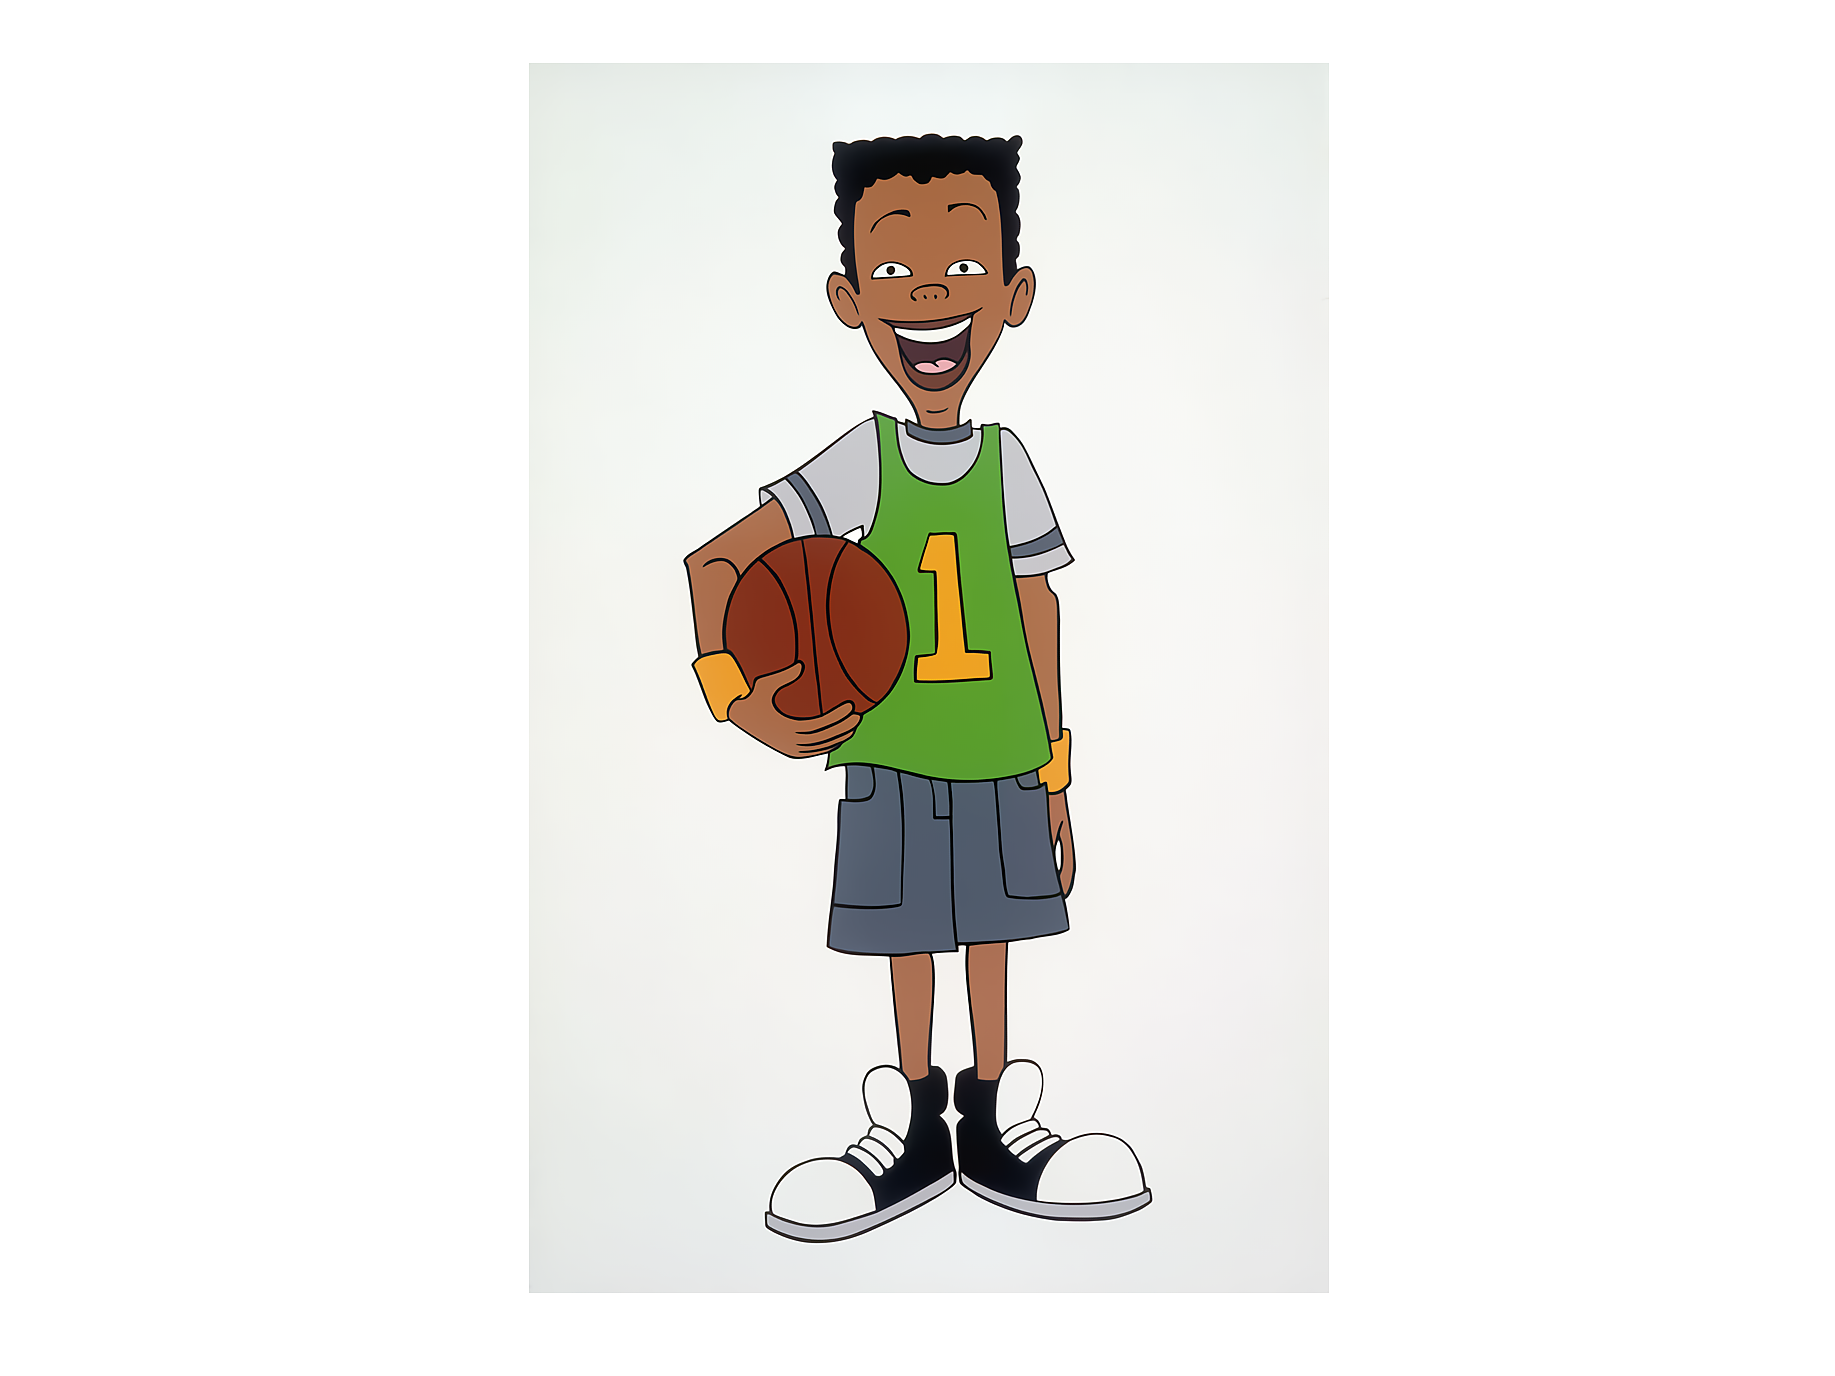
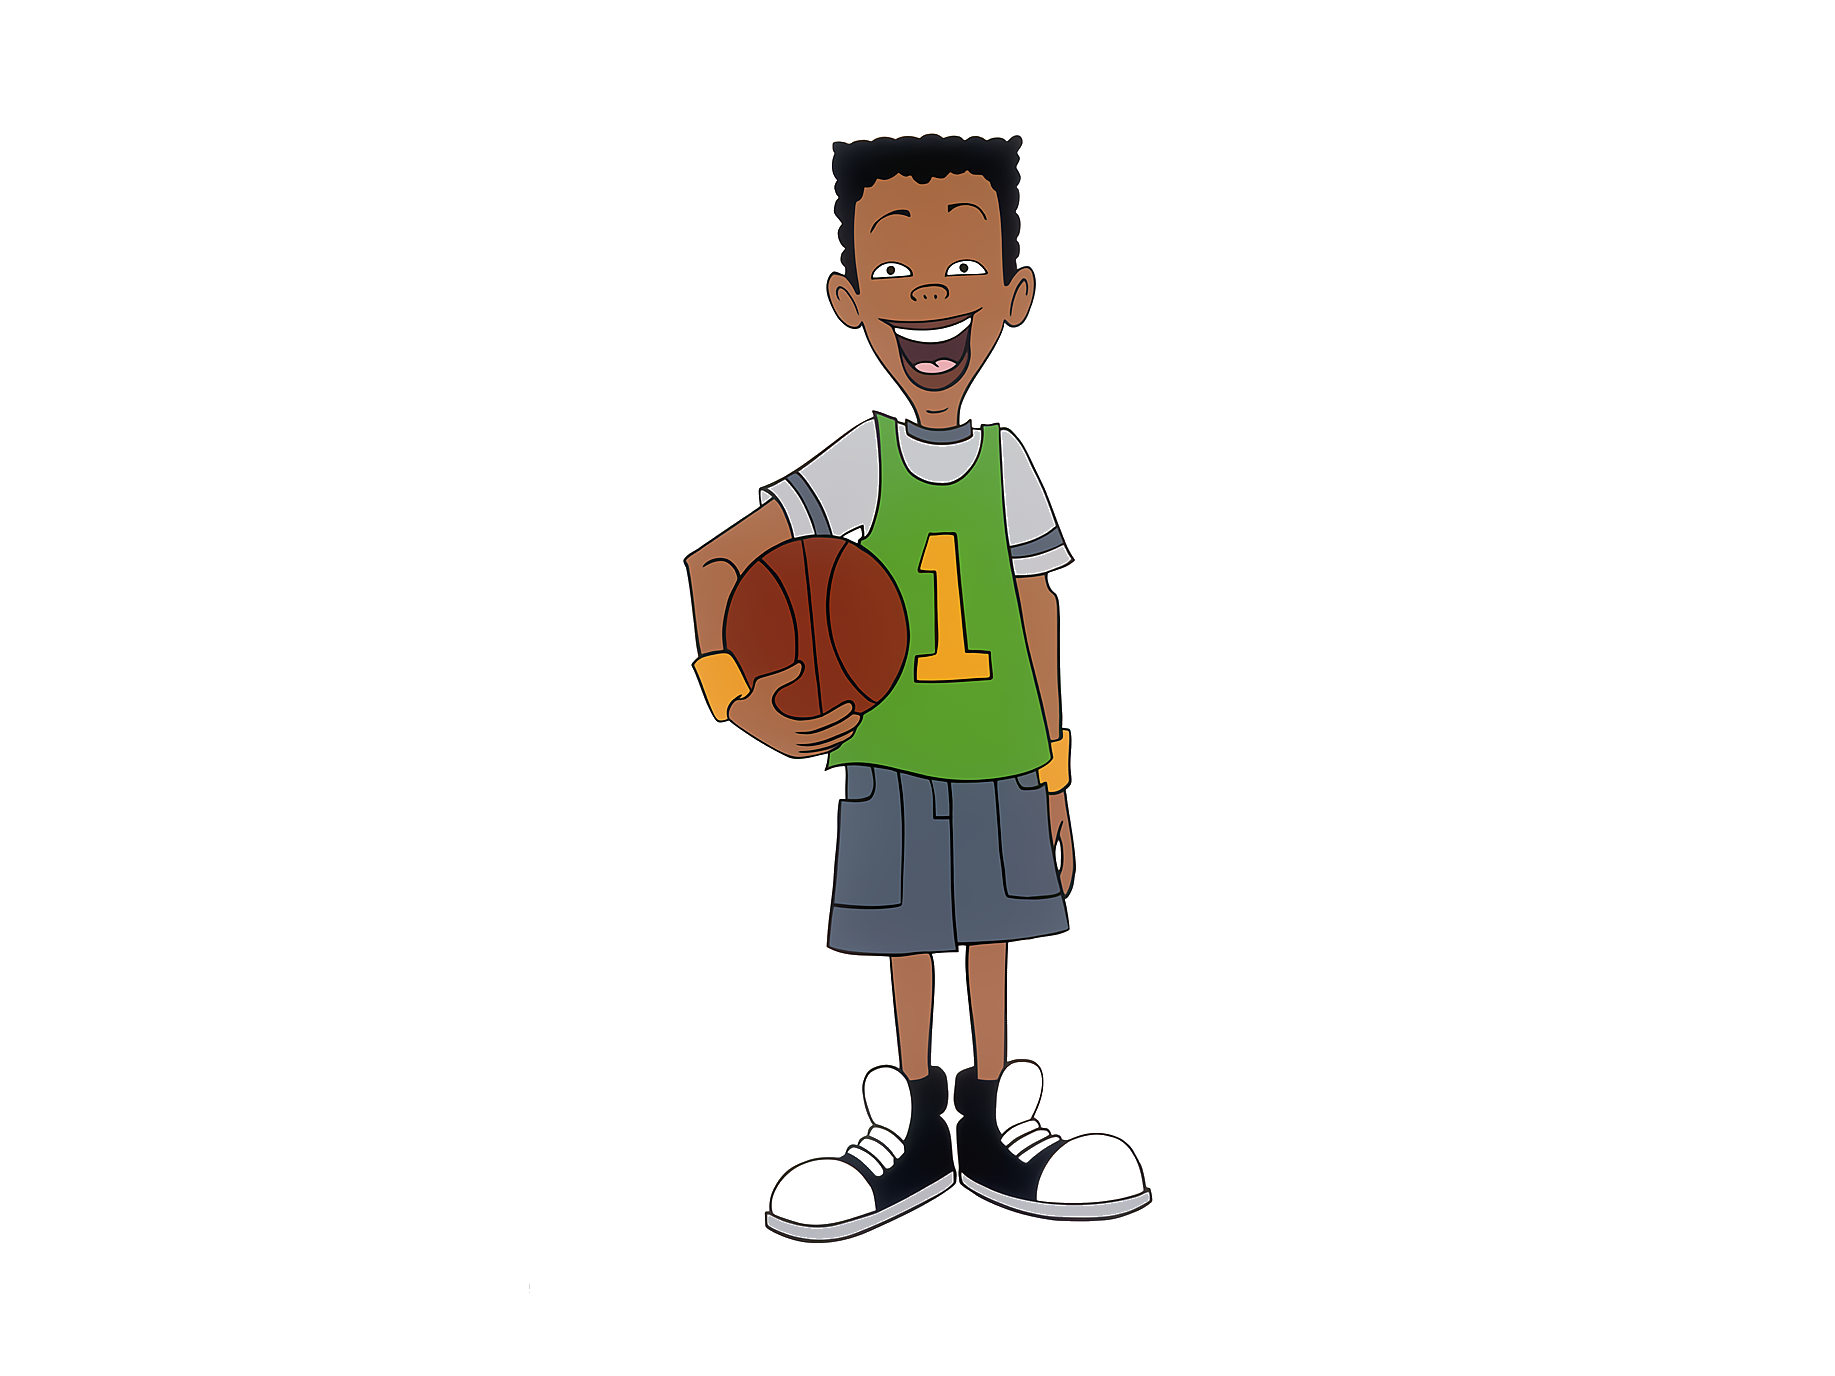
Items-only refinements: park Characters, reapply 3-item/2-skip limits, themed share card
- Park the Characters tab as a coming-soon stub: it stays visible (nav still
  reads Items / Characters) but tapping or arrowing onto it shows a toast,
  a hover 'Soon' label, and a quick shake instead of switching modes. Its
  daily selection is skipped so the seen-record isn't advanced in the
  background. Flip CHARACTERS_ENABLED back to true to restore both modes.
- Reapply the daily limits: 3 fresh items per UTC day (CHARACTERS_PER_DAY /
  ROUNDS_PER_DAY) and 2 skips per mode (MAX_SKIPS_PER_MODE), with the skip
  count shown explicitly again.
- Give each rendered share card a random main colour theme (accent, glow and
  background tint) so the same day's result doesn't share as the identical
  image; the underlying data is unchanged. With Characters parked the card is
  the items-only layout, so it contains just the 3 items.
- Remove the hard reset button (HTML, JS handler, CSS).
- Recolor Vince's jersey photo onto a plain white background (drop-shadow
  halo removed, Vince untouched).

New items surface every day: simulated the selection flow and confirmed each
UTC day yields 3 fresh, non-repeating items until the 80-item pool wraps
(~day 26). scripts/verify.mjs and scripts/verify-random.mjs both pass.

diff --git a/js/main.js b/js/main.js
@@ -22,7 +22,13 @@ initTitleBlob();
 
 const COL_LABELS = ['A', 'B', 'C', 'D'];
 const GRID_SIZE = 4;
-const ROUNDS_PER_DAY = 999;
+const ROUNDS_PER_DAY = 3;
+
+// Characters mode is parked as "coming soon" while it's being reworked. The
+// tab still renders (so the nav reads "Items / Characters") but selecting it
+// surfaces a toast instead of switching — the live experience is items-only.
+// Flip back to true to restore the full two-mode game.
+const CHARACTERS_ENABLED = false;
 
 // Per-mode localStorage keys. Seen records the IDs the player has already
 // encountered (so each day surfaces fresh entries until the roster wraps).
@@ -167,11 +173,13 @@ async function init() {
     const itemPool = chars.filter(c => c.type === 'item');
     const gridPool = chars.filter(c => c.type !== 'item');
     const itemDaily = selectDailyFresh(itemPool, dateKey, 'items');
-    const gridDaily = selectDailyFresh(gridPool, dateKey, 'grid');
+    // While Characters is parked, skip its daily selection entirely so we don't
+    // advance its seen-record in the background — the tab is a coming-soon stub.
+    const gridDaily = CHARACTERS_ENABLED ? selectDailyFresh(gridPool, dateKey, 'grid') : [];
     games.items = itemDaily.length
       ? createDailyGame(itemDaily, dateKey, { mode: 'items' })
       : null;
-    games.grid = gridDaily.length
+    games.grid = (CHARACTERS_ENABLED && gridDaily.length)
       ? createDailyGame(gridDaily, dateKey, { mode: 'grid' })
       : null;
     renderHeaders();
@@ -191,7 +199,7 @@ async function init() {
     const lastVisit = readJson(STORAGE_LAST_VISIT);
     if (typeof lastVisit === 'string' && lastVisit !== dateKey) {
       // Defer slightly so the toast doesn't collide with the loading-state swap.
-      setTimeout(() => toast('A new day — fresh items and characters await!'), 600);
+      setTimeout(() => toast('A new day — three fresh items await!'), 600);
     }
     writeJson(STORAGE_LAST_VISIT, dateKey);
     armDateRolloverReload();
@@ -357,6 +365,18 @@ function prefetchImage(src) {
 }
 
 function applyTabAvailability() {
+  // While Characters is parked, keep its tab visible (so the nav still reads
+  // "Items / Characters") but mark it as a disabled coming-soon stub. The
+  // tablist stays up as long as Items is playable.
+  if (!CHARACTERS_ENABLED) {
+    els.tabItems.hidden = !games.items;
+    els.tabGrid.hidden = false;
+    els.tabGrid.classList.add('tab--coming-soon');
+    els.tabGrid.setAttribute('aria-disabled', 'true');
+    els.tabGrid.setAttribute('title', 'Coming soon');
+    if (els.tabs) els.tabs.hidden = !games.items;
+    return;
+  }
   // Hide tabs whose roster ended up empty. Clicking a no-op tab and seeing
   // nothing happen is more confusing than just not showing it. If only one
   // mode is available we hide the whole tablist — there's nothing to
@@ -849,7 +869,22 @@ function updateSkipButton() {
 }
 
 els.tabItems.addEventListener('click', () => setMode('items'));
-els.tabGrid.addEventListener('click', () => setMode('grid'));
+els.tabGrid.addEventListener('click', () => {
+  if (!CHARACTERS_ENABLED) { showComingSoon(); return; }
+  setMode('grid');
+});
+
+// Coming-soon affordance for the parked Characters tab: a toast plus a quick
+// shake on the tab so a tap reads as "intentionally not available yet".
+let comingSoonTimer = null;
+function showComingSoon() {
+  toast('Characters mode is coming soon — stay tuned!');
+  els.tabGrid.classList.remove('tab--nudge');
+  void els.tabGrid.offsetWidth;
+  els.tabGrid.classList.add('tab--nudge');
+  if (comingSoonTimer) clearTimeout(comingSoonTimer);
+  comingSoonTimer = setTimeout(() => els.tabGrid.classList.remove('tab--nudge'), 500);
+}
 
 // ARIA tablist keyboard pattern: Left/Right (and Home/End) move focus AND
 // activate the tab. Tab key continues to escape the tablist into the rest
@@ -873,6 +908,12 @@ function onTabKeyDown(e) {
     default: return;
   }
   e.preventDefault();
+  // Characters is parked — arrowing onto it surfaces the coming-soon toast
+  // rather than silently snapping focus back to Items.
+  if (!CHARACTERS_ENABLED && TAB_ORDER[nextIdx] === 'grid') {
+    showComingSoon();
+    return;
+  }
   // Skip to the next available tab if the chosen one has no game (e.g.
   // items roster failed to load). One hop is enough — there are only two.
   const targetMode = games[TAB_ORDER[nextIdx]] ? TAB_ORDER[nextIdx] : TAB_ORDER[(nextIdx + 1) % TAB_ORDER.length];
@@ -1249,38 +1290,6 @@ function triggerSwipeHint() {
   el.addEventListener('animationend', () => {
     el.classList.remove('swipe-hint');
   }, { once: true });
-}
-
-const hardResetBtn = document.getElementById('hard-reset-btn');
-if (hardResetBtn) {
-  const idleLabel = 'Hard reset';
-  const armedLabel = 'Tap again to confirm';
-  let armedTimer = null;
-  const disarm = () => {
-    hardResetBtn.textContent = idleLabel;
-    hardResetBtn.classList.remove('btn--hard-reset-armed');
-    armedTimer = null;
-  };
-  hardResetBtn.addEventListener('click', () => {
-    if (!armedTimer) {
-      hardResetBtn.textContent = armedLabel;
-      hardResetBtn.classList.add('btn--hard-reset-armed');
-      armedTimer = setTimeout(disarm, 3000);
-      return;
-    }
-    clearTimeout(armedTimer);
-    armedTimer = null;
-    try {
-      for (let i = localStorage.length - 1; i >= 0; i--) {
-        const key = localStorage.key(i);
-        if (key && key.startsWith('wcat:')) localStorage.removeItem(key);
-      }
-    } catch { /* private mode — nothing to clear */ }
-    const url = new URL(window.location.href);
-    url.search = '';
-    url.hash = '';
-    window.location.replace(url.toString());
-  });
 }
 
 let toastTimer = null;

diff --git a/js/share.js b/js/share.js
@@ -22,7 +22,29 @@ const CARD_STROKE = '#262d38';
 const TEXT_PRIMARY = '#e6ebf2';
 const TEXT_SECONDARY = '#a4afc1';
 const TEXT_MUTED = '#7b8597';
-const ACCENT = '#4dd9c0';
+
+// Each rendered share card gets a randomly-hued main colour theme, so two
+// people sharing the same day's result don't post the exact same image. Only
+// the accent/glow/background tint changes — the data (portraits, outcomes,
+// score) is identical for the day. The dark base keeps every hue legible.
+function makeTheme(hue) {
+  return {
+    accent: `hsl(${hue}, 62%, 62%)`,
+    glow: (a) => `hsla(${hue}, 72%, 56%, ${a})`,
+    pillFillTop: `hsla(${hue}, 62%, 58%, 0.24)`,
+    pillFillBottom: `hsla(${hue}, 62%, 58%, 0.10)`,
+    pillStroke: `hsla(${hue}, 62%, 62%, 0.55)`,
+    bgTop: `hsl(${hue}, 26%, 15%)`,
+    bgMid: `hsl(${hue}, 22%, 9%)`,
+    bgBottom: `hsl(${hue}, 28%, 5%)`,
+  };
+}
+
+// ~168° reproduces the original teal accent; used as a stable fallback.
+let theme = makeTheme(168);
+function pickRandomTheme() {
+  theme = makeTheme(Math.floor(Math.random() * 360));
+}
 
 const PIXEL_RATIO = Math.max(2, Math.min(3, window.devicePixelRatio || 2));
 
@@ -32,6 +54,8 @@ const PIXEL_RATIO = Math.max(2, Math.min(3, window.devicePixelRatio || 2));
 const COMPACT_GRID_THRESHOLD = 8;
 
 export async function renderShareCard(snapshot) {
+  // Fresh random main colour theme per render so shared cards vary.
+  pickRandomTheme();
   // Preload all portraits up-front so the draw path can pull them
   // synchronously from cache. The in-game prefetch usually has them already.
   await preloadAllPortraits(snapshot.characters || []);
@@ -78,6 +102,8 @@ export async function renderShareCard(snapshot) {
 // columns (Items on the left, Characters on the right) so the player can
 // brag about both runs in one image without the card changing size.
 export async function renderCombinedShareCard({ items, grid }) {
+  // Fresh random main colour theme per render so shared cards vary.
+  pickRandomTheme();
   // Preload portraits from both runs up-front; the in-game cache usually
   // already has them but the share view is sometimes hit from a cold start.
   const allChars = [...(items?.characters || []), ...(grid?.characters || [])];
@@ -130,7 +156,7 @@ function drawCombinedHeader(ctx, { items, grid }) {
   ctx.textBaseline = 'top';
 
   const dateLabel = items?.date || grid?.date || '';
-  ctx.fillStyle = ACCENT;
+  ctx.fillStyle = theme.accent;
   ctx.font = '800 22px "Inter", -apple-system, BlinkMacSystemFont, "Segoe UI", Roboto, sans-serif';
   ctx.fillText('DAILY · ' + dateLabel, PADDING, 64);
 
@@ -225,10 +251,10 @@ function drawSmallScorePill(ctx, text, right, top) {
 
   ctx.save();
   const grd = ctx.createLinearGradient(x, y, x, y + h);
-  grd.addColorStop(0, 'rgba(77,217,192,0.22)');
-  grd.addColorStop(1, 'rgba(77,217,192,0.10)');
+  grd.addColorStop(0, theme.pillFillTop);
+  grd.addColorStop(1, theme.pillFillBottom);
   ctx.fillStyle = grd;
-  ctx.strokeStyle = 'rgba(77,217,192,0.55)';
+  ctx.strokeStyle = theme.pillStroke;
   ctx.lineWidth = 1.25;
   roundRect(ctx, x, y, w, h, h / 2);
   ctx.fill();
@@ -345,18 +371,18 @@ function drawCompactGrid(ctx, snapshot, played, left, top, right, bottom) {
 }
 
 function drawBackground(ctx) {
-  // Vertical gradient base.
+  // Vertical gradient base — tinted toward the card's random main theme hue.
   const grd = ctx.createLinearGradient(0, 0, 0, H);
-  grd.addColorStop(0, '#1f2735');
-  grd.addColorStop(0.55, '#141821');
-  grd.addColorStop(1, '#0b0e13');
+  grd.addColorStop(0, theme.bgTop);
+  grd.addColorStop(0.55, theme.bgMid);
+  grd.addColorStop(1, theme.bgBottom);
   ctx.fillStyle = grd;
   ctx.fillRect(0, 0, W, H);
 
   // Soft radial glow top-left to give the card a focal point.
   const glow = ctx.createRadialGradient(220, 160, 20, 220, 160, 700);
-  glow.addColorStop(0, 'rgba(77, 217, 192, 0.16)');
-  glow.addColorStop(1, 'rgba(77, 217, 192, 0)');
+  glow.addColorStop(0, theme.glow(0.16));
+  glow.addColorStop(1, theme.glow(0));
   ctx.fillStyle = glow;
   ctx.fillRect(0, 0, W, H);
 
@@ -369,7 +395,7 @@ function drawHeader(ctx, snapshot) {
   ctx.textBaseline = 'top';
 
   // Brand kicker — small label above the title.
-  ctx.fillStyle = ACCENT;
+  ctx.fillStyle = theme.accent;
   ctx.font = '800 22px "Inter", -apple-system, BlinkMacSystemFont, "Segoe UI", Roboto, sans-serif';
   ctx.fillText('DAILY · ' + snapshot.date, PADDING, 64);
 
@@ -404,10 +430,10 @@ function drawScorePill(ctx, text, right, top) {
   ctx.save();
   // Subtle gradient fill on the pill.
   const grd = ctx.createLinearGradient(x, y, x, y + h);
-  grd.addColorStop(0, 'rgba(77,217,192,0.22)');
-  grd.addColorStop(1, 'rgba(77,217,192,0.10)');
+  grd.addColorStop(0, theme.pillFillTop);
+  grd.addColorStop(1, theme.pillFillBottom);
   ctx.fillStyle = grd;
-  ctx.strokeStyle = 'rgba(77,217,192,0.55)';
+  ctx.strokeStyle = theme.pillStroke;
   ctx.lineWidth = 1.5;
   roundRect(ctx, x, y, w, h, h / 2);
   ctx.fill();

diff --git a/styles.css b/styles.css
@@ -495,6 +495,51 @@ body {
   outline-offset: 3px;
 }
 
+/* "Coming soon" stub — the Characters tab is visible but parked. Dimmed,
+   not-allowed cursor, and a small floating label on hover/focus so a tap or
+   hover reads as "intentionally not available yet". */
+.tab--coming-soon {
+  opacity: 0.5;
+  cursor: not-allowed;
+}
+.tab--coming-soon:hover { color: var(--tab-text); }
+.tab--coming-soon::after {
+  content: "Soon";
+  position: absolute;
+  top: -10px;
+  right: -6px;
+  font-size: 9px;
+  font-weight: 800;
+  letter-spacing: 0.04em;
+  text-transform: uppercase;
+  padding: 1px 5px;
+  border-radius: var(--radius-pill);
+  background: var(--tab-accent);
+  color: var(--tab-text);
+  opacity: 0;
+  transform: translateY(2px);
+  transition: opacity 200ms var(--ease-out), transform 200ms var(--ease-out);
+  pointer-events: none;
+}
+.tab--coming-soon:hover::after,
+.tab--coming-soon:focus-visible::after {
+  opacity: 1;
+  transform: translateY(0);
+}
+
+/* Quick shake when the parked tab is tapped, reinforcing the toast. */
+.tab--nudge { animation: tab-nudge 420ms var(--ease-out); }
+@keyframes tab-nudge {
+  0%, 100% { transform: translateX(0); }
+  20% { transform: translateX(-4px); }
+  40% { transform: translateX(4px); }
+  60% { transform: translateX(-3px); }
+  80% { transform: translateX(2px); }
+}
+@media (prefers-reduced-motion: reduce) {
+  .tab--nudge { animation: none; }
+}
+
 /* ---------- Stage ---------- */
 .stage {
   flex: 1;
@@ -998,22 +1043,6 @@ body {
   gap: 8px;
   position: relative;
   margin-top: clamp(20px, 4vw, 36px);
-}
-
-.btn--hard-reset {
-  font-size: 11px;
-  padding: 6px 12px;
-  min-height: 0;
-  opacity: 0.6;
-  letter-spacing: 0.06em;
-  text-transform: uppercase;
-}
-.btn--hard-reset:hover { opacity: 1; }
-.btn--hard-reset-armed {
-  opacity: 1;
-  color: #2a1700;
-  background: #ffb24d;
-  border-color: transparent;
 }
 
 /* A thin rainbow accent above the footer ties the chrome together. */

diff --git a/js/game.js b/js/game.js
@@ -9,9 +9,8 @@
 //   quad — 4 distinct color swatches, 1 guess, no hints
 //
 // Skips: a skipped round is neither won nor lost — neutral against streak —
-// but still advances the run. The skip budget (MAX_SKIPS_PER_MODE) is set
-// effectively unlimited, and the UI collapses to a plain "Skip available"
-// label rather than a remaining-count once the budget is large.
+// but still advances the run. The skip budget (MAX_SKIPS_PER_MODE) is two per
+// mode per day, and the UI shows the remaining count.
 
 import { buildGrid } from './grid.js';
 import { buildQuad } from './quad.js';
@@ -25,10 +24,9 @@ const STORAGE_KEYS = {
 const GRID_MAX_GUESSES = 3;
 const QUAD_MAX_GUESSES = 1;
 const GRID_SIZE = 4;
-// Effectively unlimited — the endless daily run lets players skip freely. The
-// UI treats any value >= 10 as "unlimited" and shows "Skip available" instead
-// of a remaining count.
-export const MAX_SKIPS_PER_MODE = 999;
+// Two skips per mode per day. The UI shows the remaining count (values >= 10
+// collapse to a plain "Skip available" label, but two stays an explicit count).
+export const MAX_SKIPS_PER_MODE = 2;
 
 // All 16 positions on the 4x4 grid, ordered row-major. The answer
 // rotates through these across rounds and days, and the grid ramp

diff --git a/js/daily.js b/js/daily.js
@@ -4,11 +4,10 @@
 
 import { hexToHsl } from './grid.js';
 
-// The daily run is endless: the player works through the whole roster rather
-// than a fixed three-per-day. This very large stride means a single UTC day's
-// `slotsPerDay` window effectively covers the entire pool, while still letting
-// the cross-day position rotation below advance by a stable amount each day.
-const CHARACTERS_PER_DAY = 999;
+// Three fresh entries per UTC day. This is both the default daily slice size
+// and the `slotsPerDay` stride the cross-day position rotation advances by, so
+// each day surfaces a new trio and the answer position keeps rotating cleanly.
+const CHARACTERS_PER_DAY = 3;
 
 // Day 0 of the rotation. Day index 0 picks the first slice of the pool;
 // each subsequent day advances by CHARACTERS_PER_DAY so every entry surfaces

diff --git a/index.html b/index.html
@@ -173,7 +173,6 @@
 
   <footer class="bottombar">
     <small>A new puzzle every day. Resets at UTC midnight.</small>
-    <button id="hard-reset-btn" class="btn btn--ghost btn--hard-reset" type="button">Hard reset</button>
   </footer>
 
   <script type="module" src="js/main.js"></script>
